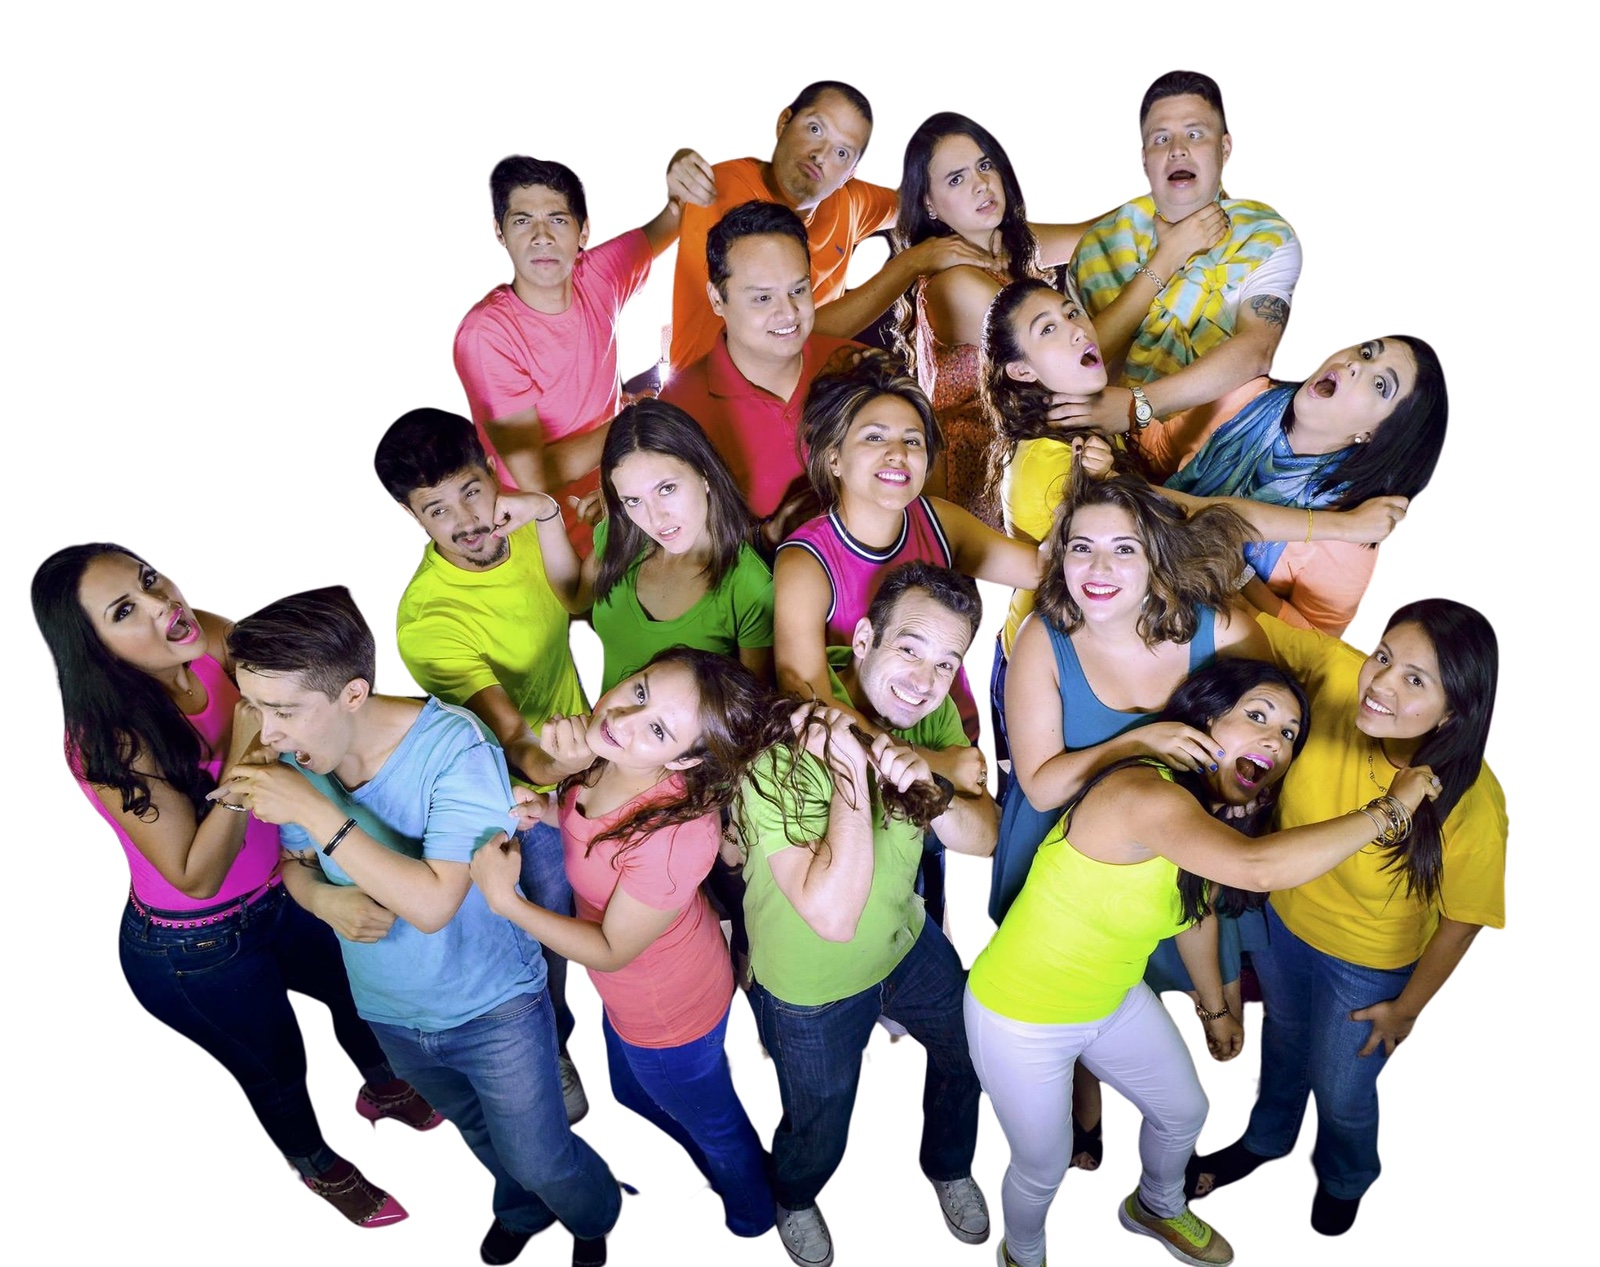
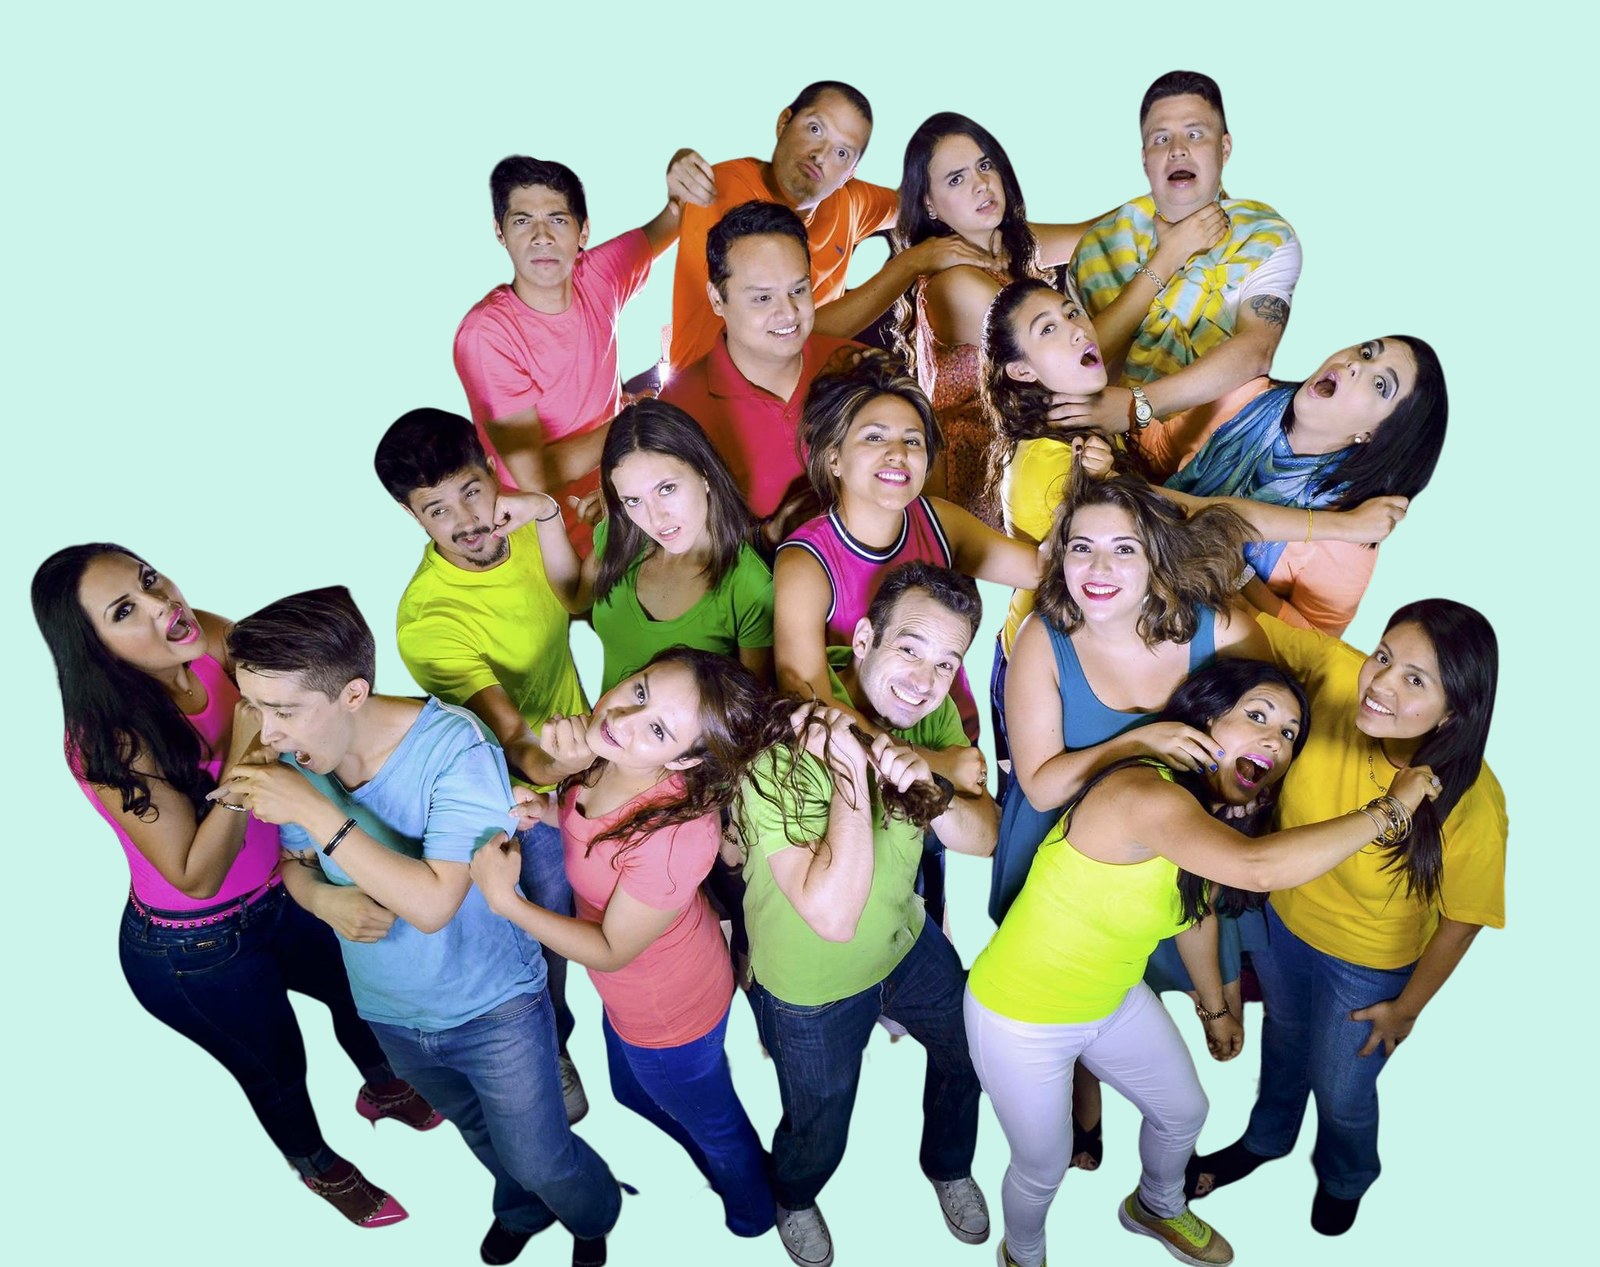
Escuela Dupeyron: hero grupo sobre menta (sin caja blanca)

diff --git a/escuela-dupeyron/index.html b/escuela-dupeyron/index.html
@@ -69,8 +69,8 @@
         <span style="font-size:12px; font-weight:600; letter-spacing:0.08em; text-transform:uppercase; background:#fff; border:2px solid #141414; border-radius:999px; padding:6px 14px">Presencial e híbrido</span>
       </div>
     </div>
-    <div data-reveal style="position:relative; min-width:0">
-      <img src="ASSETS/hero-grupo.jpg" alt="Grupo de la Escuela Dupeyron" width="1600" height="1267" style="width:100%; height:auto; border-radius:28px; display:block">
+    <div data-reveal style="position:relative; min-width:0; display:flex; align-items:center; justify-content:center">
+      <img src="ASSETS/hero-grupo.jpg" alt="Grupo de la Escuela Dupeyron" width="1600" height="1267" style="width:100%; max-width:560px; height:auto; display:block">
     </div>
   </section>
 
